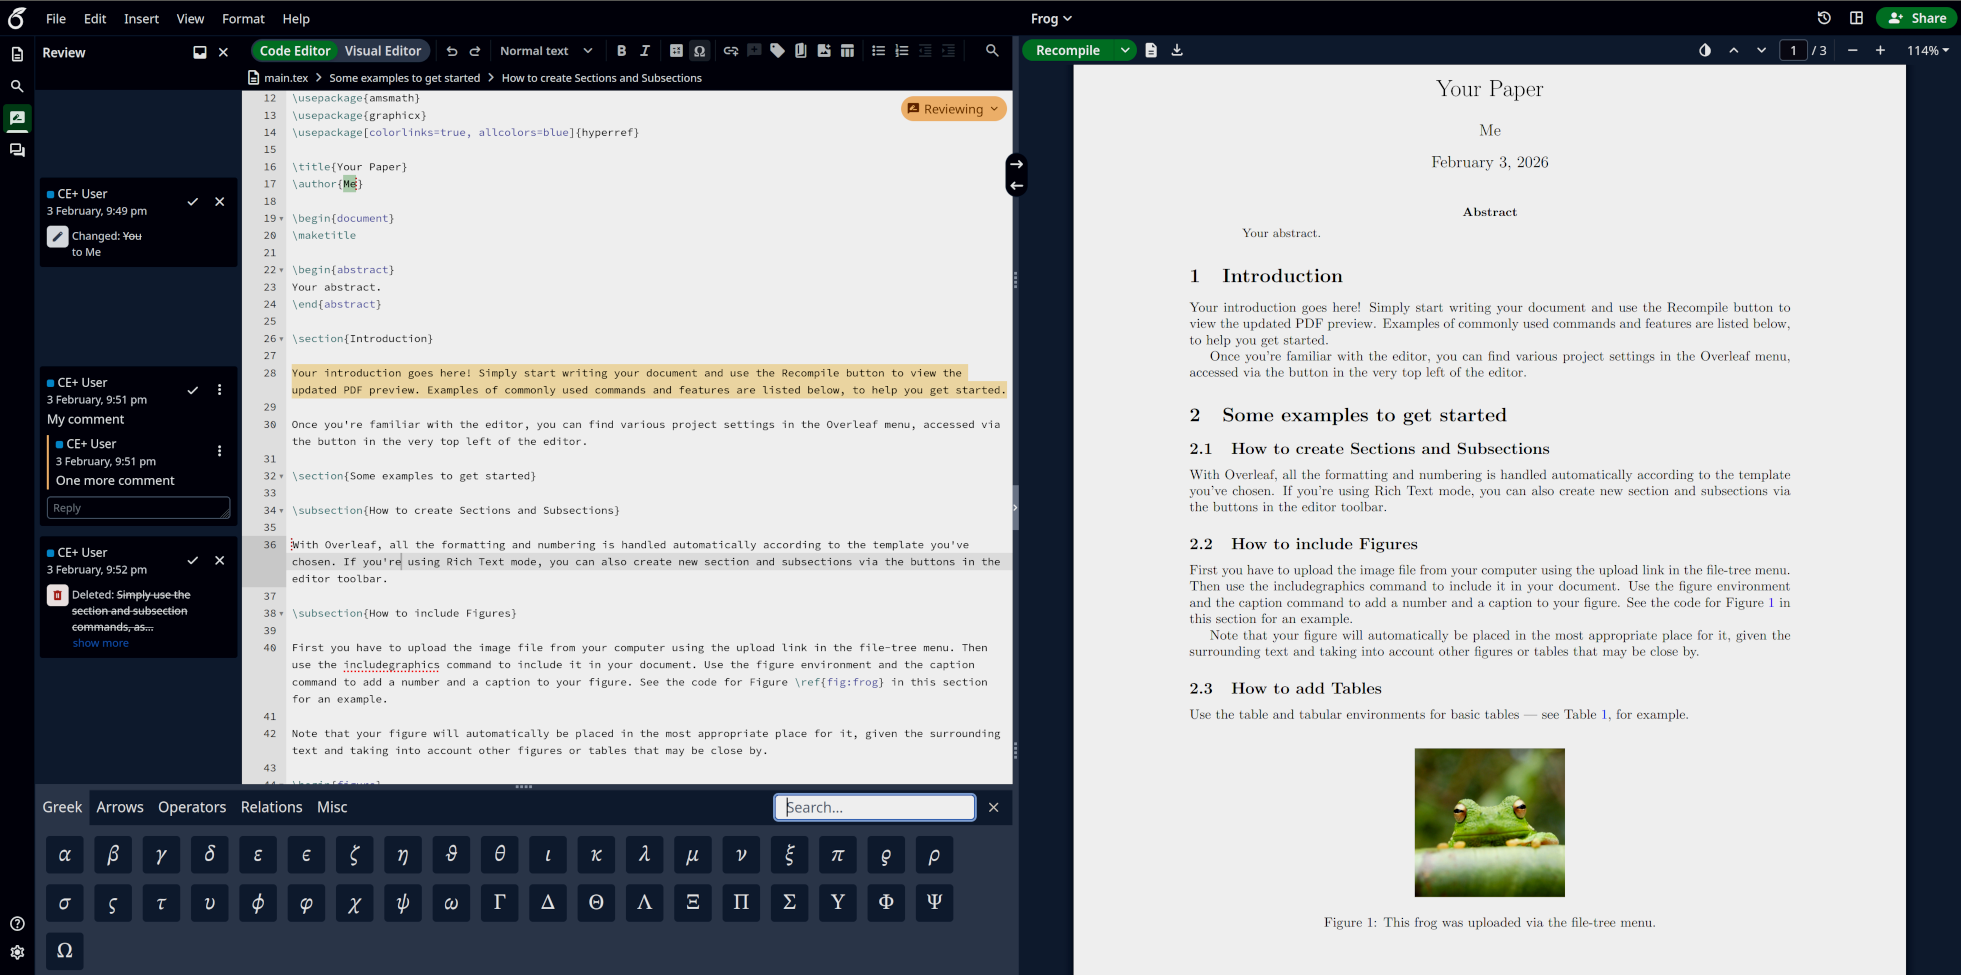
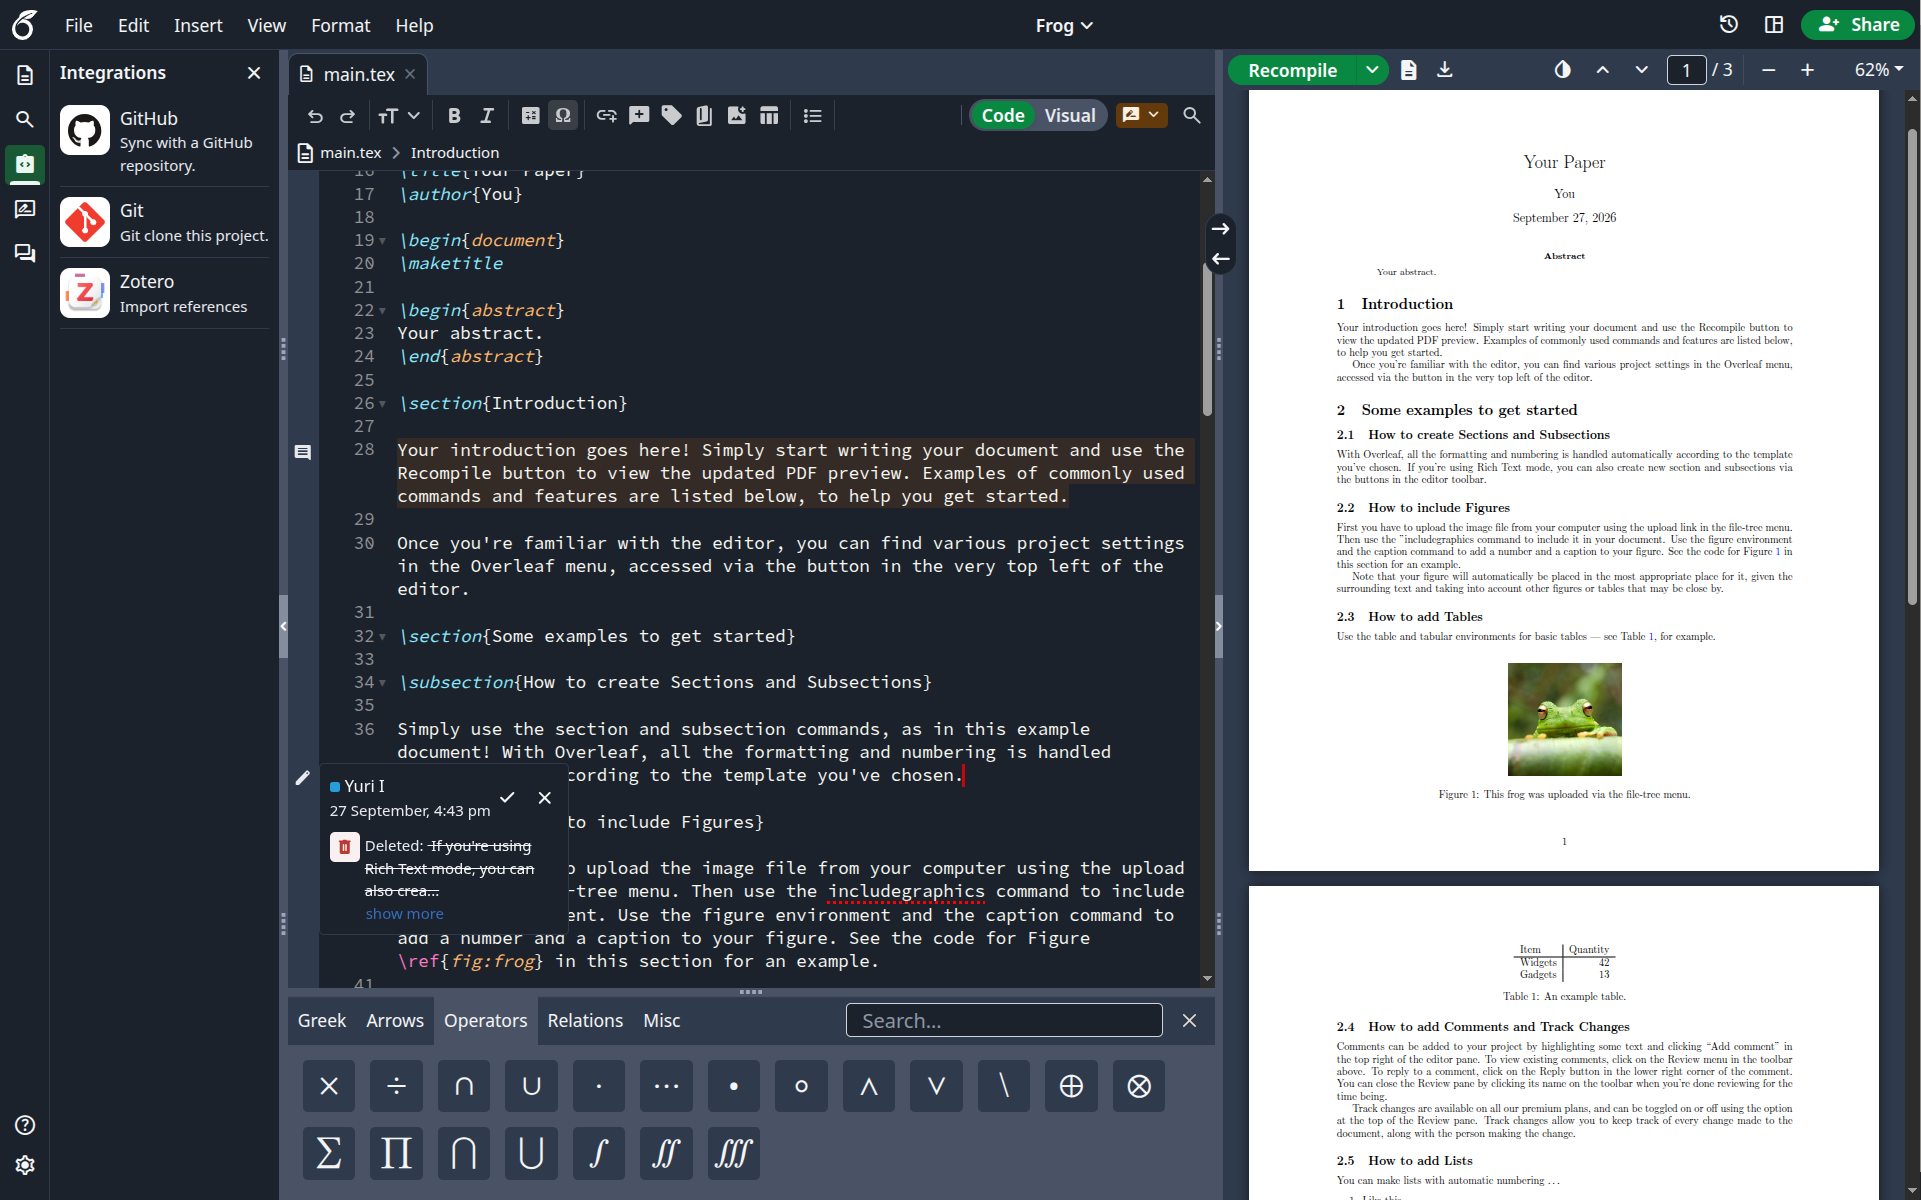
README.md for v6.3.0-v5.1

diff --git a/README.md b/README.md
@@ -14,7 +14,7 @@
 
 <img src="doc/screenshot.png" alt="A screenshot of a project being edited in Overleaf Extended Community Edition">
 <p align="center">
-  Figure 1: A screenshot of a project being edited in Overleaf Extended Community Edition.
+  Figure 1: A screenshot of a project being edited in Overleaf CE+
 </p>
 
 ## Community Edition
@@ -40,6 +40,7 @@ The present "extended" version of Overleaf CE includes:
 - Reference Search and Pick Tool
 - Document Import (`.docx`, `.md`) and Export (`.docx`, `.md`, `.html`) 
 - Advanced administrator tools for managing user accounts and projects
+- Python script runner
 - Logo tools
 
 > [!CAUTION]
@@ -81,13 +82,13 @@ folder are added.
 ## Authors
 
 [The Overleaf Team](https://www.overleaf.com/about)\
-[yu-i-i](https://github.com/yu-i-i), [davrot](https://github.com/davrot) — CE extensions; references to adapted code are listed in [`CREDITS`](CREDITS.md)
+[yu-i-i](https://github.com/yu-i-i), [davrot](https://github.com/davrot) — CE extensions; references to adapted code are listed in [`CREDITS`](CREDITS.md). See also the authors of individual commits.
 
 ## License
 
 The code in this repository is released under the GNU AFFERO GENERAL PUBLIC LICENSE, version 3. A copy can be found in the [`LICENSE`](LICENSE) file.
 
 Copyright (c) Overleaf, 2014-2026.\
-Copyright (c) @yu-i-i, 2024-2026, for CE extensions.
+Copyright (c) @yu-i-i, @davrot, 2024-2026, for CE extensions.
 
 Portions of the code are derived from other open-source projects; see [`CREDITS`](CREDITS.md).

diff --git a/CREDITS.md b/CREDITS.md
@@ -5,7 +5,7 @@ In most cases the original code has been modified, optimized, or extended.
 
 ## Symbol palette
 
-The symbol palette feature is based on the
+The Symbol palette feature is based on the
 [original Overleaf implementation](https://github.com/overleaf/web/tree/master/frontend/js/features/symbol-palette)
 
 The original code was slightly improved, particularly in the parts related to keyboard input.
@@ -46,6 +46,11 @@ from [here](https://github.com/ayaka-notes/overleaf-pro/commit/06a30fe9a0ed75e5a
 ## Sign Up page
 
 The Sign Up page is based on [this code](https://github.com/ayaka-notes/overleaf-pro/tree/feat-public-registeration).
+
+## Python script runner
+
+The Python script runner feature is the original Overleaf implementation, which
+[was hidden behind a paywall](https://github.com/overleaf/overleaf/commit/b90a8500d5df763d1a9b00352928a79c7e247de7) in later releases.
 
 # Acknowledgments
 
